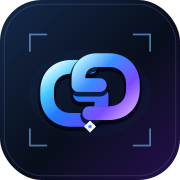
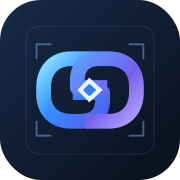
Add files via upload

diff --git a/index.html b/index.html
@@ -1,6 +1,6 @@
-<!doctype html><html lang="en"><head><meta charset="utf-8"><meta name="viewport" content="width=device-width,initial-scale=1,viewport-fit=cover"><meta name="theme-color" content="#070d18"><meta name="description" content="Graphics Genix Studio — create, edit and export social designs."><link rel="manifest" href="manifest.webmanifest"><link rel="icon" href="icon.svg"><title>Graphics Genix Studio</title><link rel="stylesheet" href="styles.css"></head><body><div class="intro-screen" id="introScreen" aria-label="Welcome to Graphics Genix Studio"><div class="intro-glow intro-glow-a"></div><div class="intro-glow intro-glow-b"></div><div class="intro-brand"><img src="icon.svg" alt="Graphics Genix symbol"><span>GRAPHICS GENIX<small>STUDIO</small></span></div><div class="intro-content"><div class="intro-kicker">YOUR CREATIVE WORLD, REIMAGINED</div><h1>Make your<br>ideas <em>impossible<br>to ignore.</em></h1><p>Design. Edit. Create. Your next favourite thing starts here.</p><div class="intro-features"><span>✦ Trend-led templates</span><span>◈ Photo & design tools</span><span>↗ Ready to share</span></div><button class="primary intro-start" id="introStart">Enter the studio <span>→</span></button><button class="intro-skip" id="introSkip">Skip intro</button></div><div class="intro-bottom"><span>GRAPHICS GENIX STUDIO</span><span>DESIGN YOUR OWN WORLD · 2026</span></div></div><div class="app" id="app">
-<header class="topbar"><a class="brand" href="#home" aria-label="Graphics Genix home"><span class="brand-mark">∞</span><span><b>GRAPHICS GENIX</b><small>STUDIO</small></span></a><div class="top-actions"><span class="status-pill"><i></i> All changes saved locally</span><button class="icon-btn" id="undo" title="Undo" aria-label="Undo">↶</button><button class="icon-btn" id="redo" title="Redo" aria-label="Redo">↷</button><button class="primary small" id="exportTop">Export ↗</button><button class="menu-btn" id="menuBtn" aria-label="Open navigation">☰</button></div></header>
-<div class="layout"><aside class="sidebar" id="sidebar"><div class="side-label">WORKSPACE</div><button class="nav-item active" data-view="home"><span>⌂</span> Home</button><button class="nav-item" data-view="templates"><span>▦</span> Templates</button><button class="nav-item" data-view="editor"><span>✎</span> Design editor</button><button class="nav-item" data-view="photo"><span>◉</span> Photo editor</button><div class="side-label spaced">YOUR SPACE</div><button class="nav-item" data-view="projects"><span>▣</span> Recent projects</button><div class="sidebar-bottom"><div class="mini-brand">GG<span>•</span></div><div><b>Graphics Genix</b><small>Make something matter.</small></div></div></aside>
+<!doctype html><html lang="en"><head><meta charset="utf-8"><meta name="viewport" content="width=device-width,initial-scale=1,viewport-fit=cover"><meta name="theme-color" content="#070d18"><meta name="description" content="Graphics Genix Studio — create, edit and export social designs."><link rel="manifest" href="manifest.webmanifest"><link rel="icon" href="icon.svg"><title>Graphics Genix Studio</title><link rel="stylesheet" href="styles.css"></head><body><div class="intro-screen" id="introScreen" aria-label="Welcome to Graphics Genix Studio"><div class="intro-glow intro-glow-a"></div><div class="intro-glow intro-glow-b"></div><div class="intro-light-sweep" aria-hidden="true"></div><div class="intro-orbit intro-orbit-one" aria-hidden="true"></div><div class="intro-orbit intro-orbit-two" aria-hidden="true"></div><div class="intro-brand"><img src="icon.svg" alt="Graphics Genix symbol"><span>GRAPHICS GENIX<small>STUDIO</small></span></div><div class="intro-content"><div class="intro-kicker"><span class="intro-kicker-line"></span> YOUR CREATIVE WORLD, REIMAGINED</div><h1>Make your<br>ideas <em>impossible<br>to ignore.</em></h1><p>Design. Edit. Create. Your next favourite thing starts here.</p><div class="intro-features"><span>✦ Trend-led templates</span><span>◈ Photo & design tools</span><span>↗ Ready to share</span></div><button class="primary intro-start" id="introStart">Enter the studio <span>→</span></button><button class="intro-skip" id="introSkip">Skip intro</button></div><div class="intro-bottom"><span>GRAPHICS GENIX STUDIO</span><span>DESIGN YOUR OWN WORLD · 2026</span></div></div><div class="app" id="app">
+<header class="topbar"><a class="brand" href="#home" aria-label="Graphics Genix home"><img class="brand-icon" src="icon.svg" alt="" width="39" height="39"><span><b>GRAPHICS GENIX</b><small>STUDIO</small></span></a><div class="top-actions"><span class="status-pill"><i></i> All changes saved locally</span><button class="icon-btn" id="undo" title="Undo" aria-label="Undo">↶</button><button class="icon-btn" id="redo" title="Redo" aria-label="Redo">↷</button><button class="primary small" id="exportTop">Export ↗</button><button class="menu-btn" id="menuBtn" aria-label="Open navigation">☰</button></div></header>
+<div class="layout"><aside class="sidebar" id="sidebar"><div class="side-label">WORKSPACE</div><button class="nav-item active" data-view="home"><span>⌂</span> Home</button><button class="nav-item" data-view="templates"><span>▦</span> Templates</button><button class="nav-item" data-view="editor"><span>✎</span> Design editor</button><button class="nav-item" data-view="photo"><span>◉</span> Photo editor</button><div class="side-label spaced">YOUR SPACE</div><button class="nav-item" data-view="projects"><span>▣</span> Recent projects</button><div class="sidebar-bottom"><img class="mini-brand-icon" src="icon.svg" alt="" width="35" height="35"><div><b>Graphics Genix</b><small>Make something matter.</small></div></div></aside>
 <main class="main"><section class="view active" id="view-home"><div class="hero"><div class="hero-copy"><div class="eyebrow"><span class="spark">✦</span> YOUR CREATIVE SPACE</div><h1>Create without<br><em>limits.</em></h1><p>Design, edit and bring your ideas to life — all in one studio.</p><button class="primary" id="startProject">＋ Create a design <span>→</span></button><div class="hero-foot"><span>01 / IMAGINE</span><span>02 / CREATE</span><span>03 / SHARE</span></div></div><div class="hero-art" aria-label="Abstract blue creative artwork"><div class="orbit orbit-one"></div><div class="orbit orbit-two"></div><div class="art-glow"></div><div class="art-card card-back">G G<br><small>CREATIVE STUDIO</small></div><div class="art-card card-front"><span>DESIGN<br>YOUR<br><i>OWN</i><br>WORLD.</span><b>GG / 26</b></div><div class="art-spark">✳</div></div></div><div class="section-heading"><div><div class="eyebrow">START WITH AN IDEA</div><h2>What are we creating today?</h2></div><button class="text-btn" data-goto="templates">Browse all templates ↗</button></div><div class="quick-grid"><button class="quick-card" data-size="post"><span class="quick-icon blue">▧</span><b>Instagram post</b><small>1080 × 1350 · Portrait</small><span class="quick-arrow">↗</span></button><button class="quick-card" data-size="story"><span class="quick-icon violet">▯</span><b>Story / Reel cover</b><small>1080 × 1920 · Vertical</small><span class="quick-arrow">↗</span></button><button class="quick-card" data-size="square"><span class="quick-icon cyan">▦</span><b>Square post</b><small>1080 × 1080 · Square</small><span class="quick-arrow">↗</span></button><button class="quick-card" data-size="custom"><span class="quick-icon pink">＋</span><b>Custom canvas</b><small>Choose your own size</small><span class="quick-arrow">↗</span></button></div><div class="section-heading recent-head"><div><div class="eyebrow">MADE FOR YOUR NEXT BIG THING</div><h2>Explore templates</h2></div><div class="tiny-note">Editable from the first click</div></div><div class="template-grid home-templates" id="homeTemplates"></div></section>
 <section class="view" id="view-templates"><div class="page-heading"><div><div class="eyebrow">A GOOD PLACE TO START</div><h1>Templates<span class="heading-dot">.</span></h1><p>Pick a direction. Make it yours.</p></div><button class="outline-btn" id="blankDesign">＋ Blank design</button></div><div class="search-wrap"><span>⌕</span><input id="templateSearch" type="search" placeholder="Search quotes, products, travel, business…" autocomplete="off"><kbd>⌘ K</kbd></div><div class="filter-row" id="filters"><button class="filter active" data-filter="All">All designs</button><button class="filter" data-filter="Quote">Quotes</button><button class="filter" data-filter="Business">Business</button><button class="filter" data-filter="Product">Products</button><button class="filter" data-filter="Lifestyle">Lifestyle</button><button class="filter" data-filter="Travel">Travel</button><button class="filter" data-filter="Photo">Photo templates</button></div><div class="results-line"><span id="resultCount">Templates for your next idea</span><span>SELECT A DESIGN TO EDIT ↗</span></div><div class="template-grid" id="allTemplates"></div></section>
 <section class="view" id="view-editor"><div class="editor-heading"><div><div class="eyebrow">THE CREATIVE WORKSPACE</div><h1 id="projectTitle" contenteditable="true" spellcheck="false">Untitled design</h1><small>Click any object on the canvas to edit it.</small></div><div class="editor-actions"><button class="outline-btn" id="saveProjectBtn">Save project</button><button class="outline-btn" id="addTextTop">＋ Add text</button><button class="primary" id="exportBtn">Export design ↗</button></div></div><div class="editor-workspace"><div class="tool-rail"><button class="rail-tool active" data-tool="select"><span>↖</span><small>Select</small></button><button class="rail-tool" data-tool="text"><span>T</span><small>Text</small></button><button class="rail-tool" data-tool="photo"><span>▧</span><small>Photo</small></button><button class="rail-tool" data-tool="shape"><span>◧</span><small>Shape</small></button><button class="rail-tool" data-tool="background"><span>◒</span><small>Color</small></button></div><div class="stage-wrap"><div class="stage-top"><span id="canvasSize">INSTAGRAM PORTRAIT · 1080 × 1350</span><div><button class="icon-btn" id="zoomOut" aria-label="Zoom out">−</button><span id="zoomLabel">Fit</span><button class="icon-btn" id="zoomIn" aria-label="Zoom in">＋</button></div></div><div class="stage-scroll"><div class="canvas" id="canvas" tabindex="0" aria-label="Editable design canvas"></div></div><div class="stage-footer"><span><i class="live-dot"></i> LOCAL EDITOR</span><span id="selectedHint">Select an object to get started</span><span>Autosaved in this browser</span></div><div class="mobile-action-strip" aria-label="Quick editing actions"><button data-mobile-action="text">＋<small>Text</small></button><button data-mobile-action="photo">▧<small>Photo</small></button><button data-mobile-action="shape">◇<small>Shape</small></button><button data-mobile-action="background">◒<small>Color</small></button><button id="mobileUndo">↶<small>Undo</small></button><button id="mobileRedo">↷<small>Redo</small></button></div></div><aside class="properties"><div class="prop-header"><b id="propTitle">Design</b><button class="icon-btn subtle" id="clearSelection" aria-label="Clear selection">×</button></div><div id="designProps" class="prop-content"><div class="prop-intro"><span>✦</span><h3>Make it yours.</h3><p>Choose a template, then select text, photos or shapes to customize your design.</p></div><label class="field-label">CANVAS SIZE</label><select id="sizeSelect"><option value="post">Instagram portrait</option><option value="square">Square post</option><option value="story">Story / Reel</option><option value="landscape">Landscape</option></select><label class="field-label">BACKGROUND</label><div class="color-line"><input type="color" id="bgColor" value="#0b1928"><span id="bgHex">#0B1928</span></div><button class="outline-btn full" id="addTextProp">＋ Add a text layer</button><button class="outline-btn full" id="uploadProp">＋ Add a photo</button><input type="file" id="photoInput" accept="image/*" hidden><div class="help-note">Tip: select a layer on the canvas to access its settings here.</div></div><div id="objectProps" class="prop-content hidden"></div><div class="layer-panel"><div class="layer-title"><b>Layers</b><span id="layerCount">0 objects</span></div><div id="layerList" class="layer-list"></div><button class="outline-btn full" id="addShapeProp">＋ Add a shape</button></div></aside></div></section>

diff --git a/styles.css b/styles.css
@@ -9,3 +9,22 @@
 .intro-screen{position:fixed;inset:0;z-index:1000;min-height:100vh;min-height:100svh;overflow:hidden;background:radial-gradient(ellipse at 82% 20%,#102f61 0,transparent 37%),radial-gradient(ellipse at 18% 86%,#25145b 0,transparent 38%),#050913;display:flex;flex-direction:column;justify-content:space-between;padding:max(28px,env(safe-area-inset-top)) clamp(24px,7vw,100px) max(20px,env(safe-area-inset-bottom));transition:opacity .38s ease,visibility .38s ease}.intro-screen.intro-dismiss{opacity:0;visibility:hidden;pointer-events:none}.intro-glow{position:absolute;border-radius:50%;filter:blur(70px);pointer-events:none}.intro-glow-a{width:260px;height:260px;right:7%;top:20%;background:#1268ff22}.intro-glow-b{width:240px;height:240px;left:0;bottom:4%;background:#813dff1c}.intro-brand{position:relative;z-index:1;display:flex;align-items:center;gap:13px;font:800 13px Manrope,sans-serif;letter-spacing:2.5px}.intro-brand img{width:54px;height:54px;filter:drop-shadow(0 0 20px #438bff44)}.intro-brand small{display:block;text-align:center;font-size:9px;letter-spacing:5px;color:#8da9d2;margin-top:5px}.intro-content{position:relative;z-index:1;width:min(100%,650px);padding:34px 0}.intro-kicker{font-size:10px;font-weight:800;letter-spacing:2.6px;color:#87b8ff}.intro-content h1{font:800 clamp(44px,8vw,88px)/.99 Manrope,sans-serif;letter-spacing:-.065em;margin:22px 0}.intro-content h1 em{font-style:normal;color:transparent;background:linear-gradient(100deg,#8de0ff,#658bff 48%,#c08aff);background-clip:text}.intro-content p{color:#a5b7d0;font-size:clamp(14px,2vw,17px);line-height:1.7;max-width:430px}.intro-features{display:flex;flex-wrap:wrap;gap:9px;margin:27px 0 30px}.intro-features span{border:1px solid #263d5d;background:#0c1727b8;color:#b9cbe3;border-radius:999px;padding:10px 13px;font-size:11px}.intro-start{min-width:220px;padding:15px 20px;font-size:13px}.intro-skip{display:block;border:0;background:transparent;color:#7388a7;font-size:11px;padding:13px 0}.intro-bottom{position:relative;z-index:1;display:flex;justify-content:space-between;gap:15px;color:#506887;font-size:8px;letter-spacing:1.7px}.brand-mark{display:inline-grid;place-items:center;width:39px;height:39px;border-radius:12px;background:linear-gradient(145deg,#172c50,#080e1a);border:1px solid #365b96;box-shadow:inset 0 0 18px #347dff22;color:transparent;font-size:0;position:relative}.brand-mark:after{content:'∞';font:800 31px Manrope,sans-serif;background:linear-gradient(130deg,#8de8ff 5%,#3287ff 45%,#9b63ff 78%,#e5d7ff);background-clip:text;color:transparent;filter:drop-shadow(0 0 6px #427fff66)}.icon-btn{background:#14243a;border:1px solid #38516f;color:#edf5ff;box-shadow:0 2px 8px #0004;backdrop-filter:none;opacity:1}.icon-btn:disabled{opacity:.38}.editor-workspace .stage-top .icon-btn{width:36px;height:36px;font-size:19px}.mobile-action-strip{display:none}.tool-rail{background:#0a1421}.rail-tool{min-height:60px}.rail-tool.active{background:#19345a;color:#eaf3ff;border-color:#3568ad}.rail-tool span{color:#9fc8ff}.stage-wrap{min-width:0}.stage-scroll{overscroll-behavior:contain}.editor-workspace{align-items:stretch}
 @media(max-width:760px){.intro-screen{padding-left:25px;padding-right:25px}.intro-brand img{width:47px;height:47px}.intro-content{padding:24px 0}.intro-content h1{font-size:clamp(44px,13vw,68px)}.intro-features{gap:7px}.intro-features span{font-size:10px;padding:9px 10px}.intro-bottom{font-size:7px;letter-spacing:1px}.topbar{position:relative;backdrop-filter:none;background:#070d17;border-bottom-color:#263a53}.brand-mark{width:34px;height:34px;font-size:0}.top-actions .icon-btn{width:39px;height:39px;font-size:22px}.editor-workspace .stage-top{font-size:9px;min-height:48px}.editor-workspace .stage-top .icon-btn{width:39px;height:39px}.stage-scroll{min-height:0;padding:15px 10px 18px}.canvas{max-width:min(100%,350px)}.stage-footer{font-size:9px;min-height:34px}.tool-rail{position:sticky;bottom:0;z-index:12;order:2;display:flex;overflow-x:auto;justify-content:flex-start;gap:5px;padding:7px;background:#091321;border-top:1px solid #2a3d57;box-shadow:0 -8px 22px #0004;scrollbar-width:thin}.rail-tool{flex:0 0 62px;min-width:62px;min-height:55px;border-radius:9px}.rail-tool span{font-size:20px}.rail-tool small{font-size:9px}.mobile-action-strip{display:flex;position:sticky;bottom:0;z-index:11;align-items:center;justify-content:space-around;gap:3px;padding:6px 5px calc(6px + env(safe-area-inset-bottom));background:#0c1726;border-top:1px solid #304966}.mobile-action-strip button{display:flex;flex-direction:column;align-items:center;justify-content:center;gap:3px;min-width:44px;min-height:48px;border:1px solid #233c5b;border-radius:9px;background:#122239;color:#b8d8ff;font-size:19px}.mobile-action-strip small{font-size:9px;color:#a2b5ce}.editor-workspace .properties{border-radius:0 0 12px 12px}.editor-workspace .prop-header{position:sticky;top:0;z-index:4;background:#0c1521}.editor-workspace .layer-panel{padding-bottom:18px}.stage-footer span:first-child{white-space:nowrap}.stage-footer span:nth-child(2){overflow:hidden;text-overflow:ellipsis;white-space:nowrap}.intro-screen~.app .topbar{padding-top:max(10px,env(safe-area-inset-top))}}
 @media(min-width:761px){.mobile-action-strip{display:none}}
+
+/* Studio 2.2 polish: cinematic but restrained, consistent brand mark */
+.brand-icon{display:block;width:39px;height:39px;flex:0 0 39px;border-radius:11px;object-fit:contain}
+.mini-brand-icon{display:block;flex:0 0 35px;border-radius:9px;object-fit:contain}
+.brand-mark,.brand-mark:after{display:none!important}
+.intro-screen{isolation:isolate;background:radial-gradient(ellipse at 78% 24%,#142d50 0,transparent 34%),radial-gradient(ellipse at 15% 83%,#171d3d 0,transparent 32%),#050913;animation:introSceneIn .9s cubic-bezier(.2,.75,.2,1) both}
+.intro-screen:before{content:"";position:absolute;inset:0;pointer-events:none;background:linear-gradient(115deg,transparent 0%,#7bbcff06 38%,#a5bfff0c 50%,transparent 62%);transform:translateX(-100%);animation:introSweep 2.1s .25s ease-out both}
+.intro-brand{animation:riseIn .8s .12s both cubic-bezier(.2,.75,.2,1)}
+.intro-brand img{filter:none;animation:markReveal 1s .12s both cubic-bezier(.16,1,.3,1)}
+.intro-content>*{animation:riseIn .7s both cubic-bezier(.2,.75,.2,1)}
+.intro-content .intro-kicker{animation-delay:.24s}.intro-content h1{animation-delay:.36s}.intro-content p{animation-delay:.48s}.intro-content .intro-features{animation-delay:.58s}.intro-content .intro-start{animation-delay:.68s}.intro-content .intro-skip{animation-delay:.76s}
+.intro-kicker{display:flex;align-items:center;gap:10px}.intro-kicker-line{display:inline-block;width:24px;height:1px;background:#7cbaff;animation:lineExpand .7s .25s both}
+.intro-light-sweep{position:absolute;z-index:0;top:-20%;bottom:-20%;left:-35%;width:24%;background:linear-gradient(90deg,transparent,#9bd6ff0b,transparent);transform:skewX(-16deg);animation:lightPass 2.8s .3s ease-in-out both;pointer-events:none}
+.intro-orbit{position:absolute;z-index:0;right:7%;top:23%;width:min(37vw,410px);aspect-ratio:1;border:1px solid #6ea9f51a;border-radius:50%;transform:rotate(-22deg) scale(.88);animation:orbitIn 1.6s .1s both cubic-bezier(.16,1,.3,1);pointer-events:none}
+.intro-orbit-two{right:11%;top:28%;width:min(29vw,320px);border-color:#a28aff20;transform:rotate(34deg) scale(.8);animation-delay:.25s}
+.intro-dismiss{transition:opacity .5s ease,visibility .5s ease,transform .5s ease!important;transform:scale(1.018)}
+@keyframes introSceneIn{from{opacity:0}to{opacity:1}}@keyframes riseIn{from{opacity:0;transform:translateY(18px)}to{opacity:1;transform:translateY(0)}}@keyframes markReveal{0%{opacity:0;transform:translateY(12px) scale(.82) rotate(-8deg)}70%{opacity:1;transform:translateY(-2px) scale(1.03) rotate(1deg)}100%{opacity:1;transform:translateY(0) scale(1) rotate(0)}}@keyframes introSweep{to{transform:translateX(100%)}}@keyframes lightPass{0%{left:-35%;opacity:0}20%{opacity:1}100%{left:125%;opacity:0}}@keyframes orbitIn{from{opacity:0;scale:.72;rotate:-12deg}to{opacity:1;scale:1;rotate:0deg}}@keyframes lineExpand{from{width:0;opacity:0}to{width:24px;opacity:1}}
+@media(prefers-reduced-motion:reduce){.intro-screen,.intro-brand,.intro-brand img,.intro-content>*,.intro-screen:before,.intro-light-sweep,.intro-orbit,.intro-kicker-line{animation:none!important;transition:none!important}.intro-content>*{opacity:1;transform:none}}
+@media(max-width:760px){.brand-icon{width:35px;height:35px;flex-basis:35px}.intro-orbit{right:-17%;top:22%;width:72vw;opacity:.7}.intro-orbit-two{right:-8%;top:29%;width:56vw}.intro-content{position:relative}.intro-screen{padding-top:max(24px,env(safe-area-inset-top))}.topbar{height:auto;min-height:64px;padding-bottom:8px;gap:8px}.top-actions{gap:6px}.status-pill{display:none}.icon-btn{min-width:40px;min-height:40px}}

diff --git a/app.js b/app.js
@@ -30,7 +30,22 @@ const templates=[
 {id:'photo-travel-log',name:'Travel photo log',category:'Photo',tag:'POSTCARDS TO MYSELF',bg:'#1d4655',title:'Wish you\nwere here.',sub:'Places that stay with you.',accent:'#a9e5e8',style:'mountain'},
 {id:'photo-moodboard',name:'Moodboard collage',category:'Photo',tag:'CURRENT OBSESSION',bg:'#2e2744',title:'Things I\nam into lately.',sub:'Colours, places, little inspirations.',accent:'#d4b9ff',style:'abstract'},
 {id:'photo-portrait',name:'Portrait spotlight',category:'Photo',tag:'PORTRAIT STUDY',bg:'#352a2a',title:'A moment\nof being.',sub:'Real light. Real life. Your story.',accent:'#e9b9a4',style:'sunset'},
-{id:'photo-memory',name:'Memory of the month',category:'Photo',tag:'MONTHLY RECAP',bg:'#233d4b',title:'October,\nyou were good.',sub:'A little recap of what mattered.',accent:'#c1e5f4',style:'mountain'}
+{id:'photo-memory',name:'Memory of the month',category:'Photo',tag:'MONTHLY RECAP',bg:'#233d4b',title:'October,\nyou were good.',sub:'A little recap of what mattered.',accent:'#c1e5f4',style:'mountain'},
+{id:'photo-flash',name:'Flash photography diary',category:'Photo',tag:'FLASH DIARY · 2026',bg:'#25242a',title:'Caught in\nthe moment.',sub:'A little grain. A lot of feeling.',accent:'#e5d4bd',style:'mountain'},
+{id:'photo-photo-booth',name:'Photo booth strip',category:'Photo',tag:'LITTLE PHOTO STRIP',bg:'#eee6d8',title:'Us, on a\nrandom day.',sub:'Keep the imperfect frames.',accent:'#293448',style:'minimal'},
+{id:'photo-fit-carousel',name:'Fit carousel opener',category:'Photo',tag:'LOOKBOOK / 01',bg:'#27262d',title:'Outfit notes\nfor today.',sub:'Details, layers, and the little things.',accent:'#d9c4ff',style:'product'},
+{id:'photo-quiet-luxury',name:'Quiet luxury frames',category:'Photo',tag:'VISUAL EDIT · 01',bg:'#b9aa96',title:'Less noise.\nMore feeling.',sub:'Texture, light, and considered details.',accent:'#2c3035',style:'minimal'},
+{id:'photo-summer-cam',name:'Summer camera roll',category:'Photo',tag:'SUMMER / ROLL 01',bg:'#426d78',title:'Wish we could\nstay longer.',sub:'Sun-warmed frames from lately.',accent:'#f4d7a1',style:'mountain'},
+{id:'photo-pov',name:'POV: your life lately',category:'Photo',tag:'LIFE LATELY',bg:'#34434c',title:'Little things\nbig feelings.',sub:'A visual note from this chapter.',accent:'#d6e7ef',style:'mountain'},
+{id:'photo-digital-camera',name:'Digital camera look',category:'Photo',tag:'DIGICAM / 026',bg:'#283a4b',title:'No retakes.\nJust memories.',sub:'Every frame has a story.',accent:'#b8d8f4',style:'mountain'},
+{id:'photo-3-frame',name:'Three-frame story',category:'Photo',tag:'THREE FRAMES',bg:'#242936',title:'A day in\nthree scenes.',sub:'Start · somewhere · sunset.',accent:'#b9caff',style:'abstract'},
+{id:'photo-scrapbook',name:'Modern scrapbook',category:'Photo',tag:'SCRAPBOOK CLUB',bg:'#ddd1c1',title:'Bits of life\nworth keeping.',sub:'Collected moments, your way.',accent:'#3a3c49',style:'minimal'},
+{id:'photo-night-flash',name:'Night out flash dump',category:'Photo',tag:'AFTER DARK',bg:'#1e2231',title:'Out late.\nRemembering it.',sub:'The blurry ones are the best ones.',accent:'#d1c3ff',style:'abstract'},
+{id:'photo-architecture',name:'Architecture & details',category:'Photo',tag:'DETAIL STUDY',bg:'#4a4b4c',title:'Look a little\closer.',sub:'Shapes, shadows, and quiet corners.',accent:'#eee2cc',style:'minimal'},
+{id:'photo-food-diary',name:'Food diary carousel',category:'Photo',tag:'ON MY TABLE',bg:'#49352d',title:'Good things\we ate.',sub:'A visual menu of recent favourites.',accent:'#f1c9a5',style:'food'},
+{id:'photo-pet-life',name:'Pet camera roll',category:'Photo',tag:'VERY IMPORTANT PHOTOS',bg:'#43564c',title:'Main character\energy.',sub:'A daily dose of the best friend.',accent:'#d4e7b8',style:'mountain'},
+{id:'photo-city-walk',name:'City walk journal',category:'Photo',tag:'CITY NOTES / 026',bg:'#37424e',title:'Found along\the way.',sub:'Street corners and passing stories.',accent:'#d8c8ad',style:'mountain'},
+{id:'photo-creator-desk',name:'Creator desk diary',category:'Photo',tag:'CURRENT SETUP',bg:'#263849',title:'A space to\make things.',sub:'Tools, textures, and works in progress.',accent:'#b5dfff',style:'abstract'}
 ];
 let state={view:'home',filter:'All',search:'',layers:[],selected:null,history:[],future:[],size:'post',bg:'#0b1928',title:'Untitled design',photoURL:null,photoImage:null,photoAdjust:{brightness:100,contrast:100,saturation:100,warmth:0,fade:0},photoPreset:'original',exportFormat:'png',zoom:1,projectId:null};
 const sizes={post:{w:1080,h:1350,label:'INSTAGRAM PORTRAIT · 1080 × 1350'},square:{w:1080,h:1080,label:'SQUARE POST · 1080 × 1080'},story:{w:1080,h:1920,label:'STORY / REEL · 1080 × 1920'},landscape:{w:1200,h:675,label:'LANDSCAPE · 1200 × 675'},custom:{w:1080,h:1350,label:'CUSTOM CANVAS · 1080 × 1350'}};
